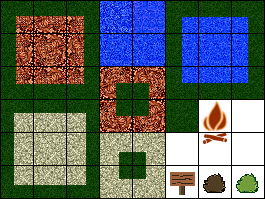
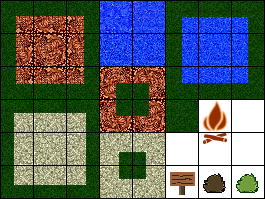
Player position and animated tiles
Added animated tiles to the test level to check if animations work.
They work amazing! No need for own code.
Also some draft code was added to see the player position and get the
start position from the tilemap.

Changed region(s): [[0.3623, 0.0, 0.5132, 0.1809]]

diff --git a/core/assets/tilemap/test.tsx b/core/assets/tilemap/test.tsx
@@ -10,37 +10,24 @@
  <tile id="0" terrain="0,0,0,1"/>
  <tile id="1" terrain="0,0,1,1"/>
  <tile id="2" terrain="0,0,1,0"/>
- <tile id="3">
-  <properties>
-   <property name="animation" value="wasser"/>
-  </properties>
- </tile>
- <tile id="4">
-  <properties>
-   <property name="animation" value="wasser"/>
-  </properties>
- </tile>
  <tile id="5" terrain="0,0,0,3"/>
  <tile id="6" terrain="0,0,3,3"/>
  <tile id="7" terrain="0,0,3,0"/>
  <tile id="8" terrain="0,1,0,1"/>
  <tile id="9" terrain="1,1,1,1"/>
  <tile id="10" terrain="1,0,1,0"/>
- <tile id="11">
-  <properties>
-   <property name="animation" value="wasser"/>
-  </properties>
- </tile>
  <tile id="12">
-  <properties>
-   <property name="animation" value="wasser"/>
-  </properties>
+  <objectgroup draworder="index"/>
  </tile>
  <tile id="13" terrain="0,3,0,3"/>
  <tile id="14" terrain="3,3,3,3">
-  <properties>
-   <property name="animation" value="wasser"/>
-  </properties>
+  <animation>
+   <frame tileid="14" duration="150"/>
+   <frame tileid="3" duration="150"/>
+   <frame tileid="4" duration="150"/>
+   <frame tileid="11" duration="150"/>
+   <frame tileid="12" duration="150"/>
+  </animation>
  </tile>
  <tile id="15" terrain="3,0,3,0"/>
  <tile id="16" terrain="0,1,0,0"/>

diff --git a/core/src/de/entwicklerpages/java/schoolgame/game/Level.java b/core/src/de/entwicklerpages/java/schoolgame/game/Level.java
@@ -4,12 +4,16 @@ import com.badlogic.gdx.Gdx;
 import com.badlogic.gdx.Input;
 import com.badlogic.gdx.files.FileHandle;
 import com.badlogic.gdx.graphics.OrthographicCamera;
+import com.badlogic.gdx.maps.MapObject;
+import com.badlogic.gdx.maps.objects.EllipseMapObject;
 import com.badlogic.gdx.maps.tiled.TiledMap;
 import com.badlogic.gdx.maps.tiled.TiledMapTileLayer;
 import com.badlogic.gdx.maps.tiled.TmxMapLoader;
 import com.badlogic.gdx.maps.tiled.renderers.OrthogonalTiledMapRenderer;
 import com.badlogic.gdx.math.MathUtils;
 import com.badlogic.gdx.utils.I18NBundle;
+
+import java.util.Iterator;
 
 import de.entwicklerpages.java.schoolgame.SchoolGame;
 
@@ -167,6 +171,8 @@ public abstract class Level {
     {
         if (levelState != LevelState.PLAYING) return;
 
+        // AnimatedTiledMapTile.updateAnimationBaseTime();
+
         player.update(deltaTime);
 
         setCameraInBounds();
@@ -182,6 +188,8 @@ public abstract class Level {
         tileMapRenderer.setView(camera);
         tileMapRenderer.render();
 
+        player.render(camera, deltaTime);
+
         if (levelState == LevelState.PAUSE)
             ingameMenu.render(camera);
     }
@@ -194,6 +202,9 @@ public abstract class Level {
     {
         if (tileMapRenderer != null)
             tileMapRenderer.dispose();
+
+        if (player != null)
+            player.dispose();
 
         if (tileMap != null)
             tileMap.dispose();
@@ -306,14 +317,14 @@ public abstract class Level {
     }
 
     /**
-     * Lässt zu, dass das Spiel auch von außen pausiert werden kann.
+     * Lässt zu, dass das Spiel auch von Außen pausiert werden kann.
      */
     public final void setPause() {
         levelState = LevelState.PAUSE;
     }
 
     /**
-     * Lässt zu, dass das Spiel auch von außen fortgesetzt werden kann (z.B. aus dem Ingame Menü)
+     * Lässt zu, dass das Spiel auch von Außen fortgesetzt werden kann (z.B. aus dem Ingame Menü)
      *
      * @see IngameMenu
      */
@@ -354,6 +365,18 @@ public abstract class Level {
 
         mapWidth = firstLayer.getWidth() * firstLayer.getTileWidth();
         mapHeight = firstLayer.getHeight() * firstLayer.getTileHeight();
+
+        Iterator<MapObject> objects = tileMap.getLayers().get("Objekte").getObjects().iterator();
+        while (objects.hasNext())
+        {
+            MapObject tileObject = objects.next();
+
+            if (tileObject.getName().equals("Spielerstart"))
+            {
+                EllipseMapObject start = (EllipseMapObject) tileObject;
+                player.setPosition(start.getEllipse().x, start.getEllipse().y);
+            }
+        }
     }
 
     /**

diff --git a/core/src/de/entwicklerpages/java/schoolgame/game/Player.java b/core/src/de/entwicklerpages/java/schoolgame/game/Player.java
@@ -2,6 +2,9 @@ package de.entwicklerpages.java.schoolgame.game;
 
 import com.badlogic.gdx.Gdx;
 import com.badlogic.gdx.Input;
+import com.badlogic.gdx.graphics.Color;
+import com.badlogic.gdx.graphics.OrthographicCamera;
+import com.badlogic.gdx.graphics.glutils.ShapeRenderer;
 import com.badlogic.gdx.math.MathUtils;
 
 public class Player {
@@ -22,6 +25,8 @@ public class Player {
 
     private EntityOrientation orientation;
 
+    private ShapeRenderer shapeRenderer;
+
     public Player(String name, boolean male) {
         this.health = 100;
         this.name = name;
@@ -29,6 +34,8 @@ public class Player {
         this.posX = 0;
         this.posY = 0;
         this.orientation = EntityOrientation.LOOK_FORWARD;
+
+        shapeRenderer = new ShapeRenderer();
     }
 
     public int getHealth() {
@@ -134,5 +141,19 @@ public class Player {
 
         this.posX += lastDeltaX * deltaTime;
         this.posY += lastDeltaY * deltaTime;
+    }
+
+    public void render(OrthographicCamera camera, float deltaTime)
+    {
+        shapeRenderer.setProjectionMatrix(camera.combined);
+        shapeRenderer.setColor(Color.RED);
+        shapeRenderer.begin(ShapeRenderer.ShapeType.Filled);
+        shapeRenderer.circle(posX, posY, 16);
+        shapeRenderer.end();
+    }
+
+    public void dispose()
+    {
+        shapeRenderer.dispose();
     }
 }
